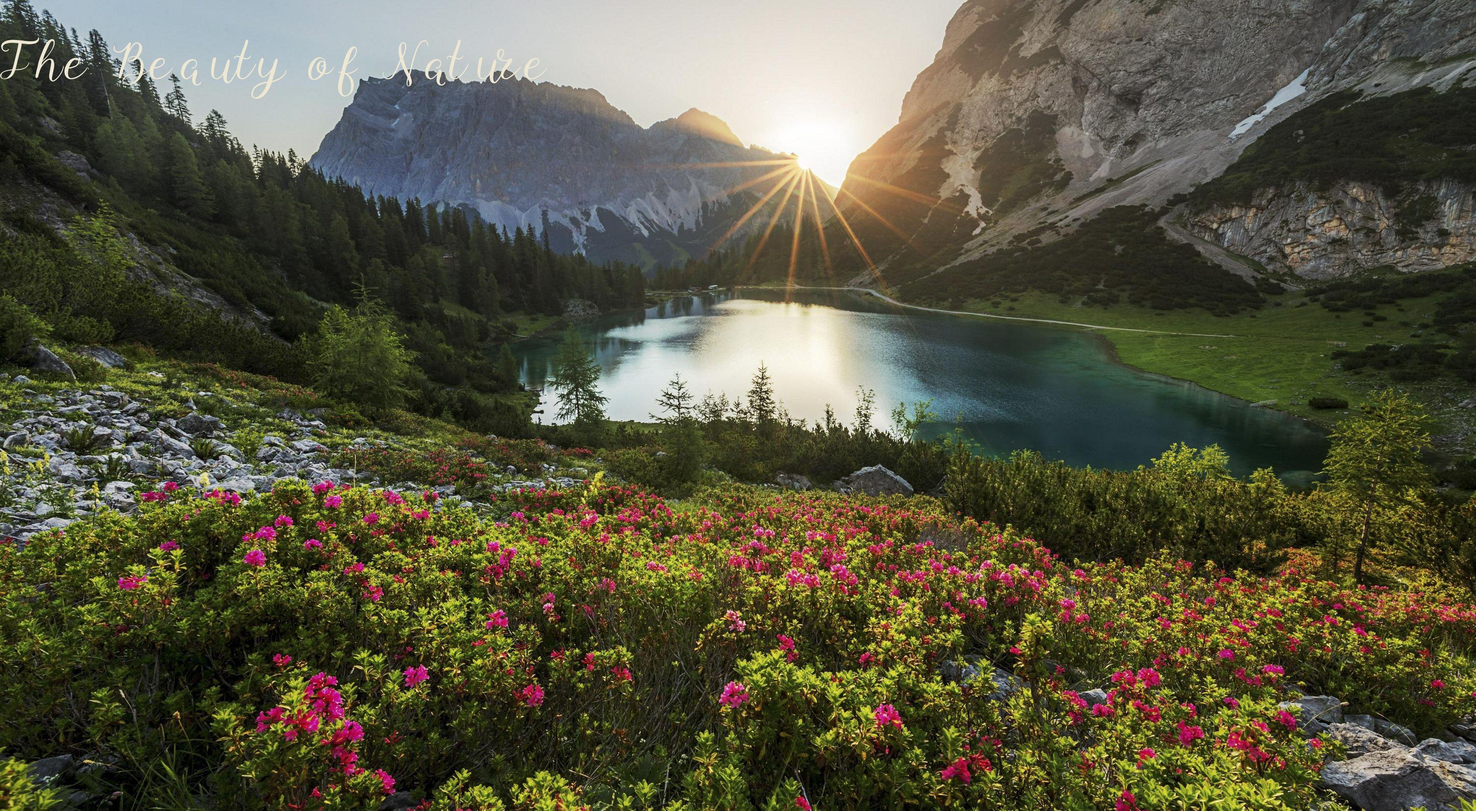
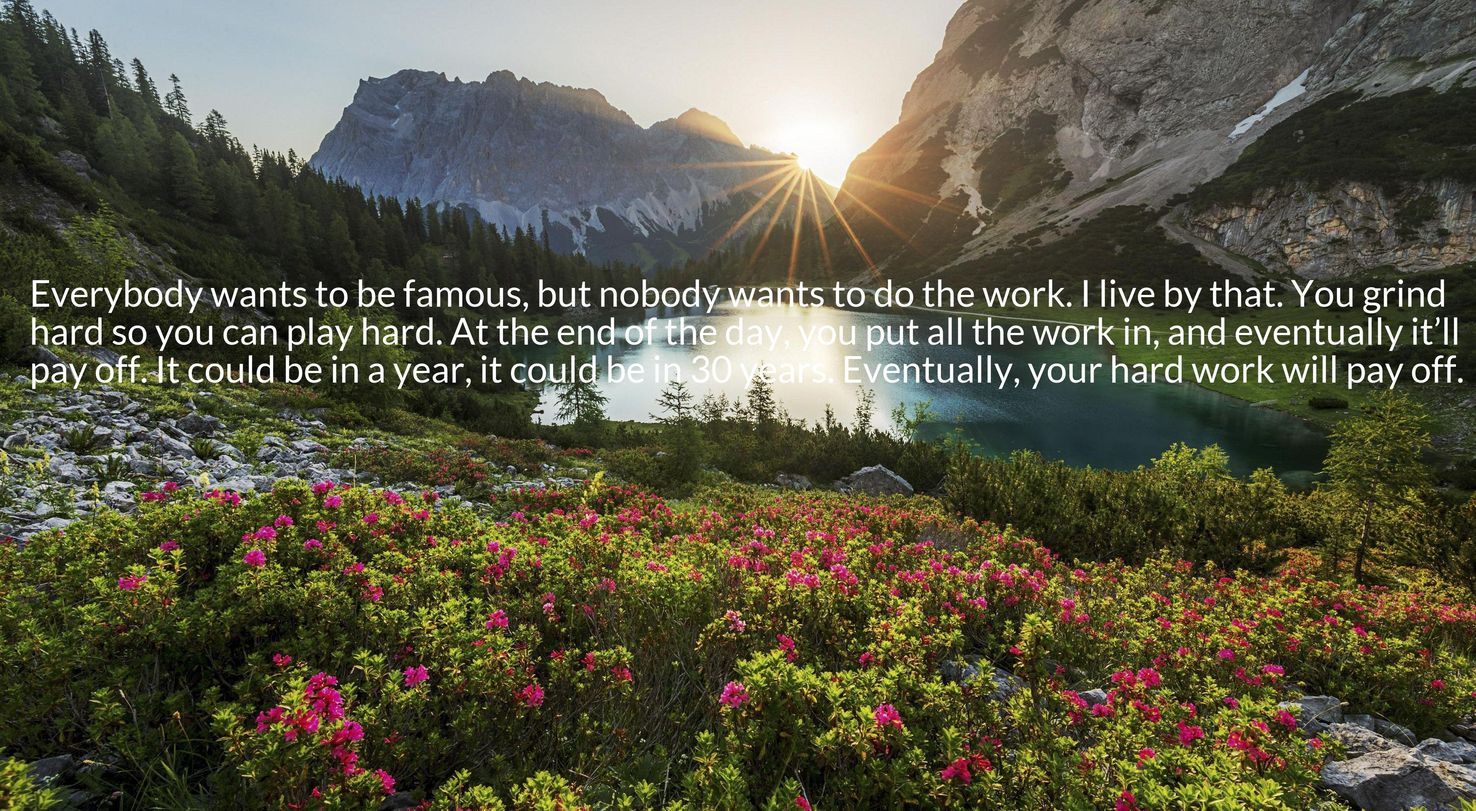
Added quote changes

Changed region(s): [[0.0, 0.34, 1.0, 0.4945], [0.0, 0.0309, 0.1875, 0.1236], [0.2188, 0.0618, 0.3438, 0.1236]]

diff --git a/python/quote_gen/simple_quote.py b/python/quote_gen/simple_quote.py
@@ -1,12 +1,41 @@
 import random
 from PIL import Image, ImageDraw, ImageFont
+import textwrap
 
 width = 512
 height = 512
 message = "Hello boss!"
-fonts = ["resource/barcelony/Barcelony.ttf","resource/Lato/Lato-Thin.ttf","resource/dreamer/Dreamer.ttf"]
+# fonts = ["resource/barcelony/Barcelony.ttf"]
+fonts = ["resource/Lato/Lato-Regular.ttf"]
 images = ["resource/sample.jpg"]
-quotes = ["The Beauty of Nature"]
+quotes = ["Everybody wants to be famous, but nobody wants to do the work. I live by that. You grind hard so you can play hard. At the end of the day, you put all the work in, and eventually it’ll pay off. It could be in a year, it could be in 30 years. Eventually, your hard work will pay off."]
+
+
+def text_wrap(text,font,writing,max_width,max_height):
+    lines = [[]]
+    words = text.split()
+    for word in words:
+        # try putting this word in last line then measure
+        lines[-1].append(word)
+        (w,h) = writing.multiline_textsize('\n'.join([' '.join(line) for line in lines]), font=font)
+        if w > max_width: # too wide
+            # take it back out, put it on the next line, then measure again
+            lines.append([lines[-1].pop()])
+            (w,h) = writing.multiline_textsize('\n'.join([' '.join(line) for line in lines]), font=font)
+            if h > max_height: # too high now, cannot fit this word in, so take out - add ellipses
+                lines.pop()
+                # try adding ellipses to last word fitting (i.e. without a space)
+                lines[-1][-1] += '...'
+                # keep checking that this doesn't make the textbox too wide, 
+                # if so, cycle through previous words until the ellipses can fit
+                while writing.multiline_textsize('\n'.join([' '.join(line) for line in lines]),font=font)[0] > max_width:
+                    lines[-1].pop()
+                    if lines[-1]:
+                        lines[-1][-1] += '...'
+                    else:
+                        lines[-1].append('...')
+                break
+    return '\n'.join([' '.join(line) for line in lines])
 
 def getfont(fontsize=50):
     font = random.choice(fonts)
@@ -24,10 +53,14 @@ def simple():
 
 def imageBGQuotes():
     my_image = Image.open(random.choice(images))
-    title_font = getfont(200)
+    title_font = getfont(100)
     image_editable = ImageDraw.Draw(my_image)
-    image_editable.text((15,15), random.choice(quotes), (237, 230, 211), font=title_font)
+    width, height = my_image.size
+    description_wrapped = text_wrap(random.choice(quotes),title_font,image_editable,width-50,height)
+    # image_editable.text((width/3, height/3),description_wrapped , (237, 230, 211), font=title_font)
+    image_editable.text((80, height/3),description_wrapped,font=title_font)
     my_image.save("image_quote.jpg")
+    my_image.show()
 
 
 imageBGQuotes()

diff --git a/python/quote_gen/test_exp.py b/python/quote_gen/test_exp.py
@@ -1,0 +1,23 @@
+import textwrap
+from PIL import Image, ImageDraw, ImageFont
+caption = "Obama warns far-left candidates says average American does not want to tear down the system"
+
+wrapper = textwrap.TextWrapper(width=50) 
+word_list = wrapper.wrap(text=caption) 
+caption_new = ''
+for ii in word_list[:-1]:
+    caption_new = caption_new + ii + '\n'
+caption_new += word_list[-1]
+
+print("caption_new :: "+caption_new)
+
+image = Image.open('resource/sample.jpg')
+draw = ImageDraw.Draw(image)
+
+# Download the Font and Replace the font with the font file. 
+font = ImageFont.truetype("resource/barcelony/Barcelony.ttf", size=200)
+w,h = draw.textsize(caption_new, font=font)
+W,H = image.size
+x,y = 0.5*(W-w),0.90*H-h
+
+image.save('output.png')

diff --git a/python/quote_gen/sample2.py b/python/quote_gen/sample2.py
@@ -1,0 +1,7 @@
+from pynter.pynter import generate_captioned
+font_path = 'resource/Lato/Lato-Regular.ttf'
+image_path = 'resource/sample.jpg'
+im = generate_captioned('China lands rover on Mars'.upper(), image_path=image_path, size=(100, 100),
+                        font_path=font_path, filter_color=(0, 0, 0, 40))
+im.show()
+im.convert('RGB').save('drawn_image.jpg')
